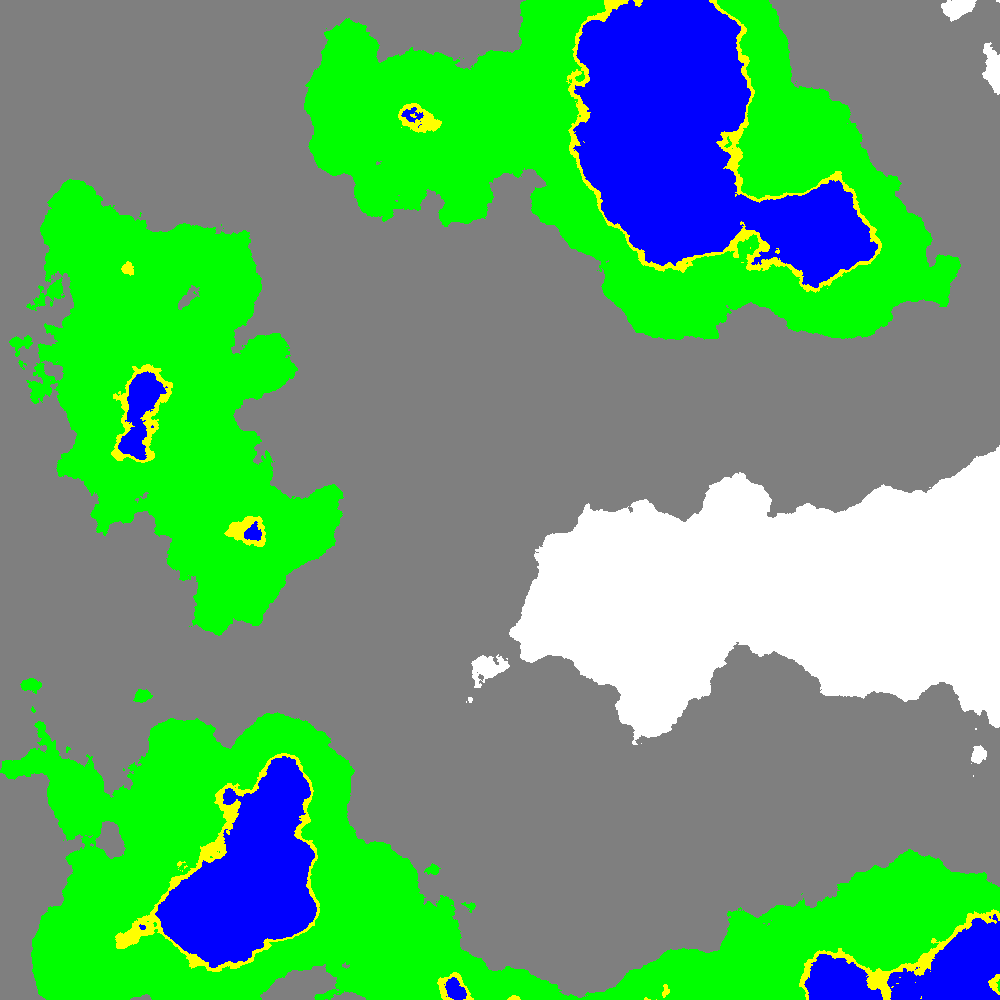
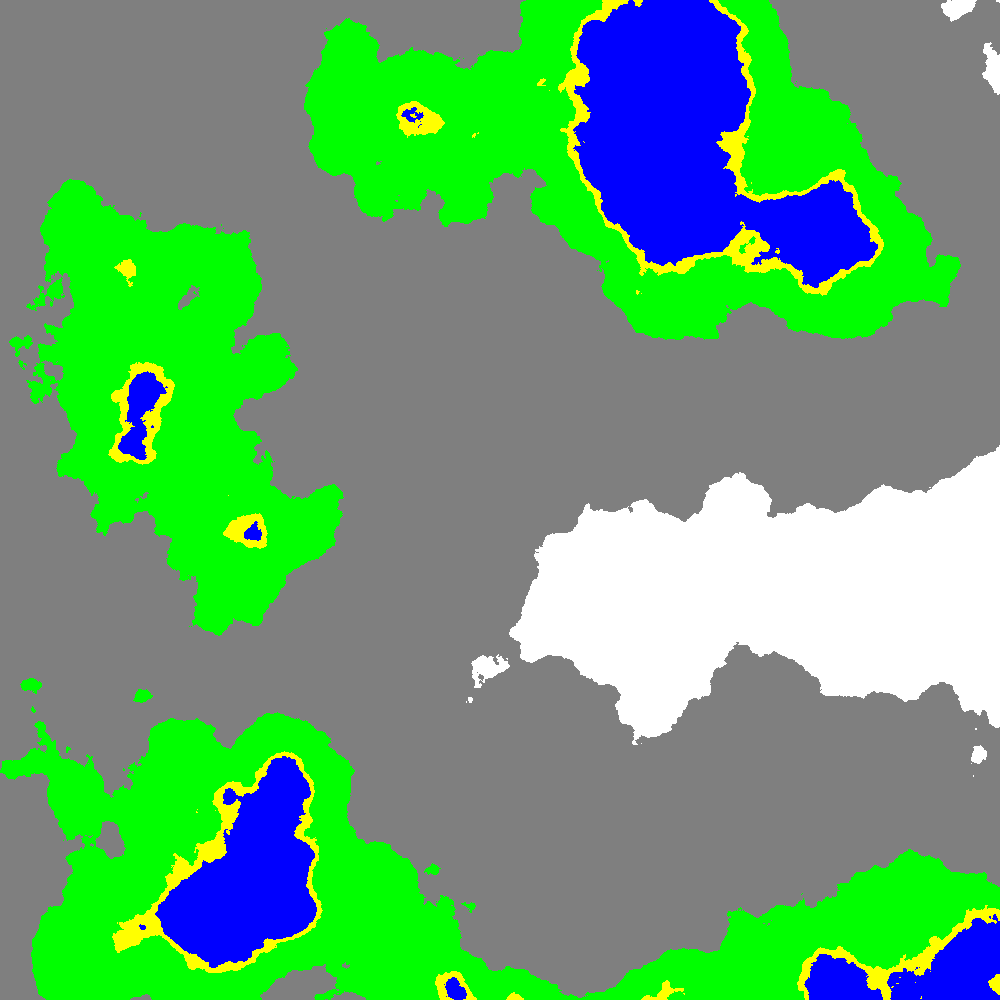
Alt merged og virker

diff --git a/TerrainGen.cs b/TerrainGen.cs
@@ -44,6 +44,8 @@ public partial class TerrainGen : MeshInstance3D
 	public int vert;
 	public Vector2 uv;
 
+	public uint[] seeds;
+
 
 
 	// Called when the node enters the scene tree for the first time.
@@ -101,12 +103,24 @@ public partial class TerrainGen : MeshInstance3D
 			// For hver punkt xSize+1
 			for(int x = 0; x < xSize+1; x++)
 			{
+
+				
+				// Sætter seed mesh seed
+				seeds = new uint[]
+				{
+				3284157443,
+				1911520717,
+				2048419325
+				};
+
 				// Bestemmer y-værdi ud fra Noise funktion (PT BARE BØLGER)
-				y = NoiseMAGIC(x,z) * MULTIPLIER;
+				y = NoiseMAGIC(x,z, seeds) * MULTIPLIER;
+				
+				
 				// get distance from center
-				float distanceToMiddle = Mathf.Sqrt(Mathf.Pow(x - xSize / 2, 2) + Mathf.Pow(z - zSize / 2, 2));
+				//float distanceToMiddle = Mathf.Sqrt(Mathf.Pow(x - xSize / 2, 2) + Mathf.Pow(z - zSize / 2, 2));
 				// set y value to be higher in the middle
-				y += centerMultiplier * Mathf.Pow(1 - Mathf.Clamp(distanceToMiddle / (xSize / 2), 0, 1), 2);
+				//y += centerMultiplier * Mathf.Pow(1 - Mathf.Clamp(distanceToMiddle / (xSize / 2), 0, 1), 2);
 				
 
 				// BESTEMMER BIOME
@@ -224,8 +238,12 @@ public partial class TerrainGen : MeshInstance3D
 
 
 	// Noise funktion (Perlin Noise), der kalder funktion fra PerlinNoise.cs og returnerer værdi mellem 0 og 1
-	public float NoiseMAGIC(float x, float y)
+	public float NoiseMAGIC(float x, float y, uint[] seed)
 	{
+
+		// Sætter seed
+		seeds = seed;
+
 		// Nulstiller højde
 		float val = 0;
 
@@ -238,8 +256,9 @@ public partial class TerrainGen : MeshInstance3D
 		// Laver 16 oktaver/lag af perlin noise og lægger dem sammen
 		for (int i = 0; i < 16; i++)
 		{
+
 			// Kalder perlin noise funktion fra PerlinNoise.cs
-			val += perlinNoise._perlinNoise(x * frequency / GRID_SIZE, y * frequency / GRID_SIZE) * amplitude;
+			val += perlinNoise._perlinNoise(x * frequency / GRID_SIZE, y * frequency / GRID_SIZE, seeds) * amplitude;
 
 			// Fordobler frekvens og amplitude halveres for hver oktav
 			frequency *= 2;

diff --git a/perlinNoiseImage.cs b/perlinNoiseImage.cs
@@ -11,6 +11,8 @@ namespace PerlinNoiseImage
 	{
 		public static int sizeX = 400;
 		public static int sizeY = 400;
+
+		public uint[] seeds;
 		
 
 		// Called when the node enters the scene tree for the first time.
@@ -24,9 +26,10 @@ namespace PerlinNoiseImage
 		{
 		}
 
-		public static void getPerlinNoiseImage()
+		public static void getPerlinNoiseImage(int sizeX, int sizeY, uint[] seeds)
 		{ // need high bitdepth
 
+			
 			Image image = Image.Create(sizeX, sizeY, false, Image.Format.Rgb8);
 
 			const int GRID_SIZE = 400;
@@ -46,7 +49,7 @@ namespace PerlinNoiseImage
 
 		  			for (int i = 0; i < 16; i++)
 		  			{
-		  			val += perlinNoise._perlinNoise(x * frequency / GRID_SIZE, y * frequency / GRID_SIZE) * amplitude;
+		  			val += perlinNoise._perlinNoise(x * frequency / GRID_SIZE, y * frequency / GRID_SIZE, seeds) * amplitude;
  
 		  			frequency *= 2;
 		  			amplitude /= 2;
@@ -68,7 +71,7 @@ namespace PerlinNoiseImage
 			image.SavePng("res://perlinNoiseImage.png");
 		}
 
-		public static void perlinNoiseTest(){
+		public static void perlinNoiseTest( uint[] seeds){
 
 			for (int x = 0; x < sizeX; x++)
 			{
@@ -81,7 +84,7 @@ namespace PerlinNoiseImage
 
 
 
-					val += perlinNoise._perlinNoise(x + 0.5f, y + 0.5f);
+					val += perlinNoise._perlinNoise(x + 0.5f, y + 0.5f, seeds);
 
 
 

diff --git a/perlinNoise.cs b/perlinNoise.cs
@@ -6,17 +6,17 @@ using System.Text;
 namespace PerlinNoise
 {
 	public partial class perlinNoise : Node3D{
-		public static uint[] seeds = new uint[] {
-			3284157443,
-			1911520717,
-			2048419325
-		};
+
+
+		public static uint[] seeds;
+
+
 		public string seed = "Mount Gododt";
 
 
 		// Called when the node enters the scene tree for the first time.
 		public override void _Ready(){
-			newSeed(seed);
+			//newSeed(seed);
 		}
 
 		// Called every frame. 'delta' is the elapsed time since the previous frame.
@@ -25,7 +25,10 @@ namespace PerlinNoise
 
 
 
-		public static float _perlinNoise(float x, float y){
+		public static float _perlinNoise(float x, float y, uint[] seedInput){
+			
+			// Sætter seed
+			seeds = seedInput;
 
 			int x0 = (int)x;
 			int y0 = (int)y;

diff --git a/node_2d.cs b/node_2d.cs
@@ -5,12 +5,17 @@ using System.Threading;
 
 public partial class node_2d : Node2D
 {
+
+	public uint[] seeds;
+	public int sizeX = 400;
+	public int sizeY = 400;
+
 	// Called when the node enters the scene tree for the first time.
 	public override void _Ready()
 	{
 		GD.Print("Hello, World!");
 		Thread.Sleep(1000);
-		perlinNoiseImage.getPerlinNoiseImage();
+		perlinNoiseImage.getPerlinNoiseImage(sizeX, sizeY, seeds);
 		GD.Print("Done");
 		
 	}
